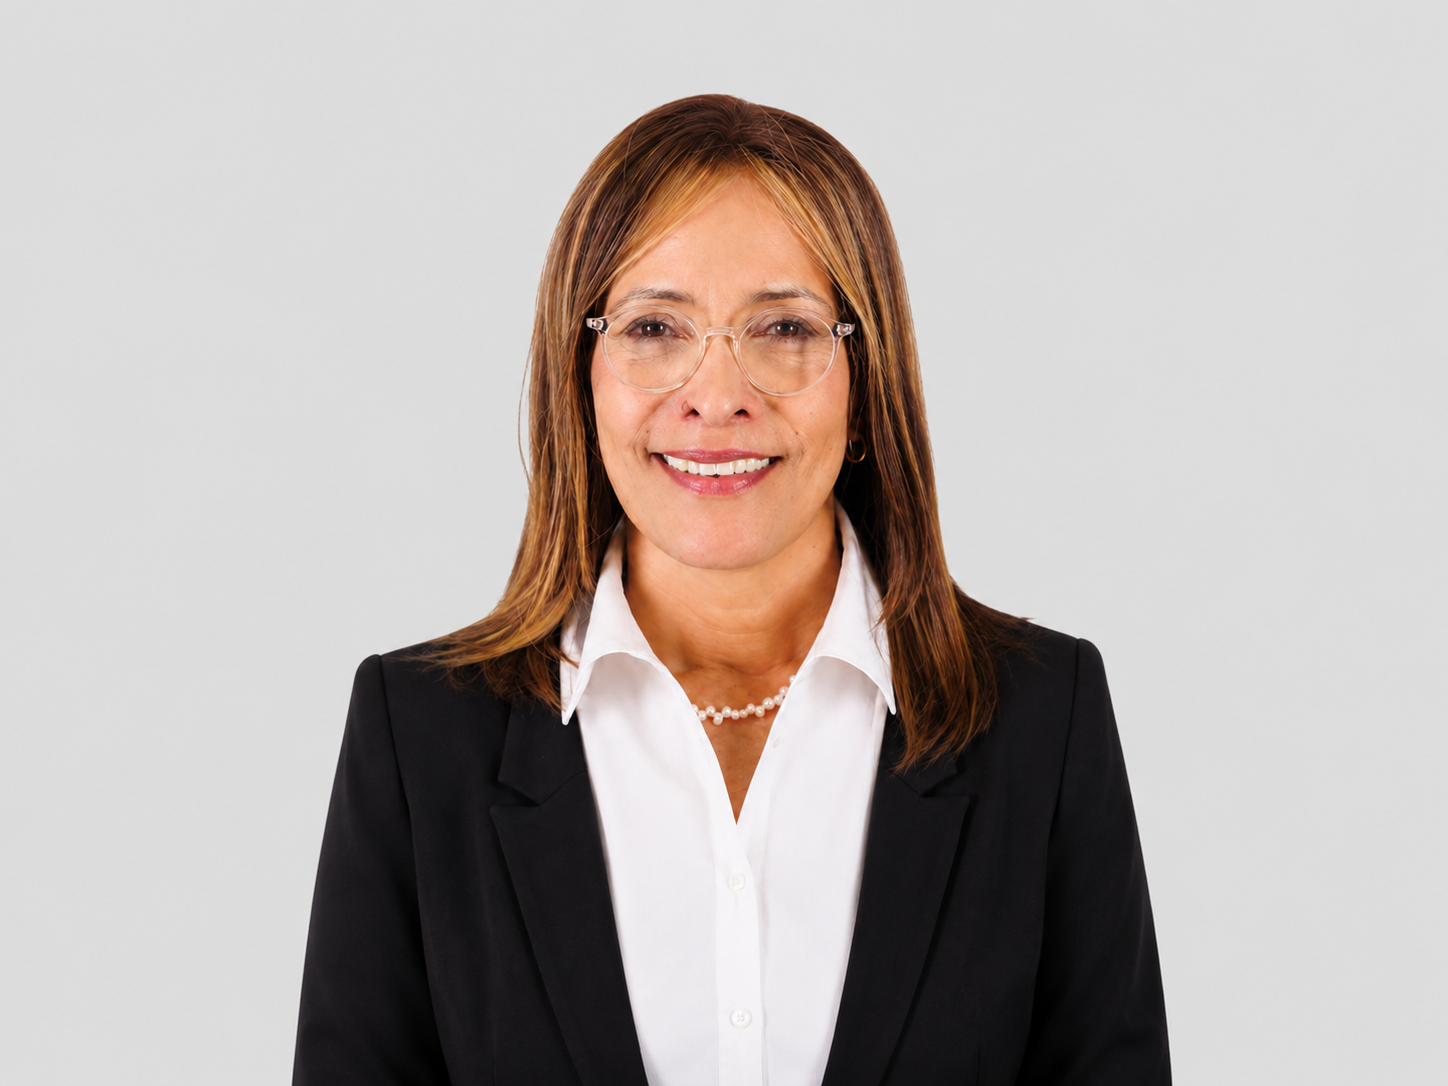
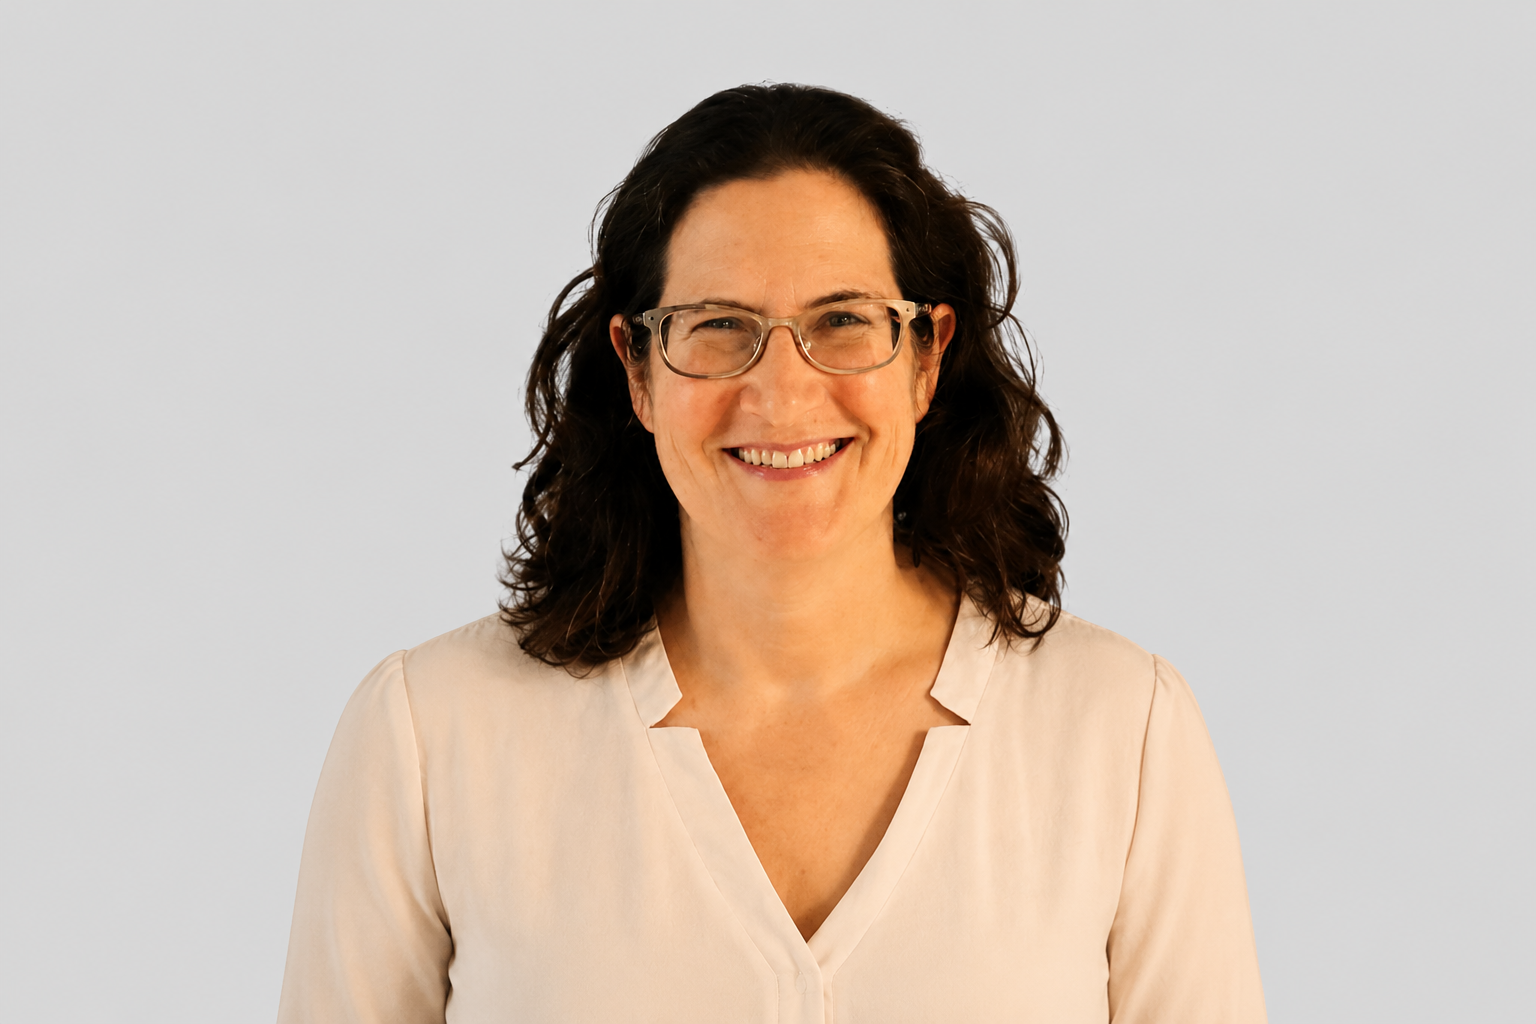
Shirli_Reznizky_Kahan photo update

diff --git a/index.html b/index.html
@@ -1268,6 +1268,6 @@
     <div id="team-page"></div>
   </main>
 
-  <script src="script.js?v=138"></script>
+  <script src="script.js?v=139"></script>
 </body>
 </html>

diff --git a/script.js b/script.js
@@ -3,7 +3,7 @@
 
   var PHOTO_DIR = 'photos/';
   /** Bump after replacing photos. Card photo area is 272×230; PNGs are portrait (~232×276). */
-  var PHOTO_VER = '38';
+  var PHOTO_VER = '39';
 
   function participantPhotoUrl(key) {
     return PHOTO_DIR + key + '.png?v=' + PHOTO_VER;